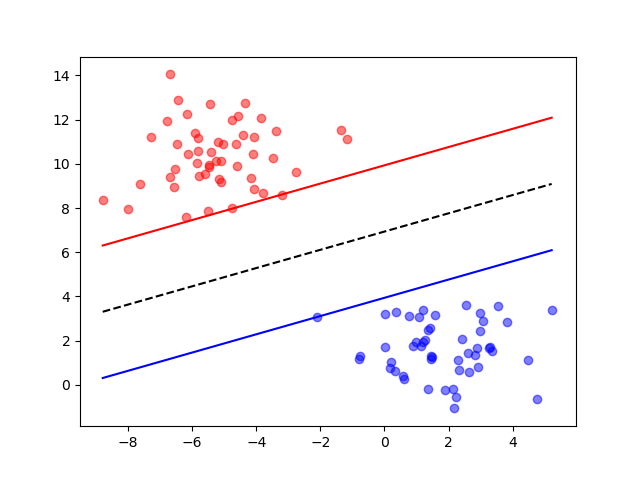
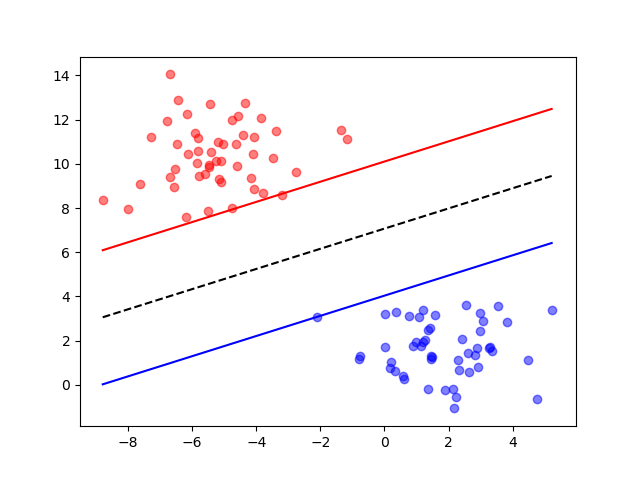
add loss img

diff --git a/svm/SVM.py b/svm/SVM.py
@@ -2,7 +2,7 @@ import numpy as np
 
 
 class SVM:
-    def __init__(self, X):
+    def __init__(self, X, iter):
         self.b = 0
         self.dim = X.shape[1]
         self.w = np.zeros(shape=[self.dim])
@@ -11,13 +11,21 @@ class SVM:
         self.Y = [1] * int(self.N / 2) + [-1] * int(self.N / 2)
         self.Y = np.array(self.Y)
         self.alpha = np.random.random(self.N)
+        self.hessian = np.empty(shape=[self.N, self.N])
+        self.init_hessian()
         self.rate = 0.005
         self.C = 30
-        self.iter = 200
+        self.iter = iter
+        self.history_margin=np.array([])
+        self.history_loss=np.array([])
         # print(self.X)
         # print(self.Y)
-        # print(self.alpha)
+        print(self.alpha)
 
+    def init_hessian(self):
+        for i in range(0, self.N):
+            for j in range(0, self.N):
+                self.hessian[i][j] = self.Y[i] * self.Y[j] * np.dot(self.X[i], self.X[j])
     def pick(self):
         k = np.random.randint(0, self.N)
         while self.alpha[k] == 0:
@@ -34,11 +42,7 @@ class SVM:
     def train(self):
         f = np.ones(self.N)
         for iter in range(0, self.iter):
-            hessian = np.empty(shape=[self.N, self.N])
-            for i in range(0, self.N):
-                for j in range(0, self.N):
-                    hessian[i][j] = self.Y[i] * self.Y[j] * np.dot(self.X[i], self.X[j])
-            d = f - hessian.dot(self.alpha)
+            d = f - self.hessian.dot(self.alpha)
             k = self.pick()
             dependent_sum = 0
             for i in range(0, self.N):
@@ -50,11 +54,15 @@ class SVM:
             self.alpha[k] = self.threshold(self.alpha[k])
             self.getw()
             self.getb()
-            print(iter,self.margin())
+            # print(iter, self.margin())
+            print(iter, self.loss())
+            self.history_margin = np.append(self.history_margin,self.margin())
+            self.history_loss = np.append(self.history_loss,self.loss())
 
-        print("alpha",self.alpha)
-        print("w",self.w)
-        print("b",self.b)
+        print("alpha", self.alpha)
+        print("w", self.w)
+        print("b", self.b)
+
         return self.alpha, self.w, self.b
 
     def getw(self):
@@ -72,28 +80,33 @@ class SVM:
         self.b /= count
 
     def margin(self):
-        return 2/(self.w.dot(self.w))
+        return 2 / (self.w.dot(self.w))
+
+    def loss(self):
+        f = np.ones(self.N)
+        return -0.5*(np.dot(np.dot(self.alpha.transpose(),self.hessian),self.alpha))+f.transpose().dot(self.alpha)
 
     def support_vector(self):
-        X=[]
-        Y=[]
+        X = []
+        Y = []
         count = 0
-        for i in range (0,self.N):
-            if self.alpha[i]!=0:
+        for i in range(0, self.N):
+            if self.alpha[i] != 0:
                 X.append(self.X[i][0])
                 Y.append(self.X[i][1])
                 print(self.X[i])
-                count+=1
+                count += 1
         print(count)
-        return X,Y
+        return X, Y
 
     def decision_boundary(self, sign):
         X = []
         Y = []
-        max = np.amax(self.X,axis=0)[0]
-        min = np.amin(self.X,axis=0)[0]
+        max = np.amax(self.X, axis=0)[0]
+        min = np.amin(self.X, axis=0)[0]
         for x1 in np.arange(min, max, 0.01):
-            x2 = ((-1)*(self.w[0] * x1 +self.b - sign))/ self.w[1]
+            x2 = ((-1) * (self.w[0] * x1 + self.b - sign)) / self.w[1]
             X.append(x1)
             Y.append(x2)
-        return X,Y
+        return X, Y
+

diff --git a/svm/svm_test.py b/svm/svm_test.py
@@ -23,7 +23,8 @@ def main():
     X = np.empty(shape=[0, dim])
     X = np.append(X, data1, axis=0)
     X = np.append(X, data2, axis=0)
-    svm = SVM(X)
+    iter = 100
+    svm = SVM(X,iter)
     svm.train()
     print("train over")
     X,Y = svm.decision_boundary(0)
@@ -34,8 +35,18 @@ def main():
     drawline(X,Y,"blue",'-')
     # X,Y = svm.support_vector()
     # draw(X,Y,"black","x")
-
     plt.show()
+
+    # history_margin = svm.history_margin
+    # print(history_margin)
+    # drawline(np.arange(0,iter,1), history_margin, "blue", '-')
+    # plt.show()
+
+    history_loss = svm.history_loss
+    print(history_loss)
+    drawline(np.arange(0,iter,1),history_loss, "blue", '-')
+    plt.show()
+
 
 
 if __name__ == "__main__":
